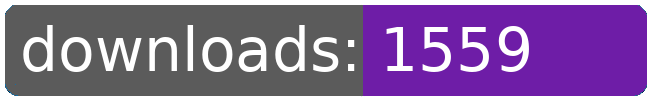
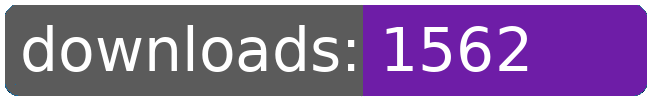
dl log written

Changed region(s): [[0.7077, 0.24, 0.8308, 0.72]]

diff --git a/README.md b/README.md
@@ -21,8 +21,8 @@
 		<td>1373</td>
 		<td>1405</td>
 		<td>1430</td>
-		<td>1453</td>
-		<td>+ 23</td>
+		<td>1454</td>
+		<td>+ 24</td>
 	</tr>
 	<tr>
 		<td>aberrant.kahet.outfitter</td>
@@ -65,8 +65,8 @@
 		<td>1479</td>
 		<td>1511</td>
 		<td>1536</td>
-		<td>1559</td>
-		<td>+ 23</td>
+		<td>1562</td>
+		<td>+ 26</td>
 	</tr>
 	<tr>
 		<td>capture.augen</td>
@@ -252,8 +252,8 @@
 		<td></td>
 		<td></td>
 		<td></td>
-		<td>20008</td>
-		<td>419</td>
+		<td>20012</td>
+		<td>423</td>
 	</tr>
 </table>
 </sub></sup>
@@ -278,8 +278,8 @@
 		<td>1479</td>
 		<td>1511</td>
 		<td>1536</td>
-		<td>1559</td>
-		<td>+ 23</td>
+		<td>1562</td>
+		<td>+ 26</td>
 	</tr>
 	<tr>
 		<td>jumpdrive.extended</td>
@@ -311,8 +311,8 @@
 		<td>1373</td>
 		<td>1405</td>
 		<td>1430</td>
-		<td>1453</td>
-		<td>+ 23</td>
+		<td>1454</td>
+		<td>+ 24</td>
 	</tr>
 	<tr>
 		<td>purchase.bactrian</td>
@@ -509,8 +509,8 @@
 		<td></td>
 		<td></td>
 		<td></td>
-		<td>20008</td>
-		<td>419</td>
+		<td>20012</td>
+		<td>423</td>
 	</tr>
 </table>
 </sub></sup>
@@ -538,7 +538,7 @@
 		<td>84</td>
 		<td>46</td>
 		<td>18</td>
-		<td>28</td>
+		<td>33</td>
 	</tr>
 	<tr>
 		<td>unique visitors</td>
@@ -550,7 +550,7 @@
 		<td>12</td>
 		<td>13</td>
 		<td>9</td>
-		<td>13</td>
+		<td>15</td>
 	</tr>
 </table>
 <br>
@@ -564,8 +564,8 @@
 	</tr>
 	<tr>
 		<td>2025-10-15</td>
-		<td>2529</td>
-		<td>506</td>
+		<td>2534</td>
+		<td>508</td>
 		<td>192</td>
 		<td>21</td>
 	</tr>
@@ -578,8 +578,8 @@
 	</tr>
 	<tr>
 		<td>52</td>
-		<td>48.63</td>
-		<td>9.73</td>
+		<td>48.73</td>
+		<td>9.77</td>
 		<td></td>
 		<td></td>
 	</tr>
